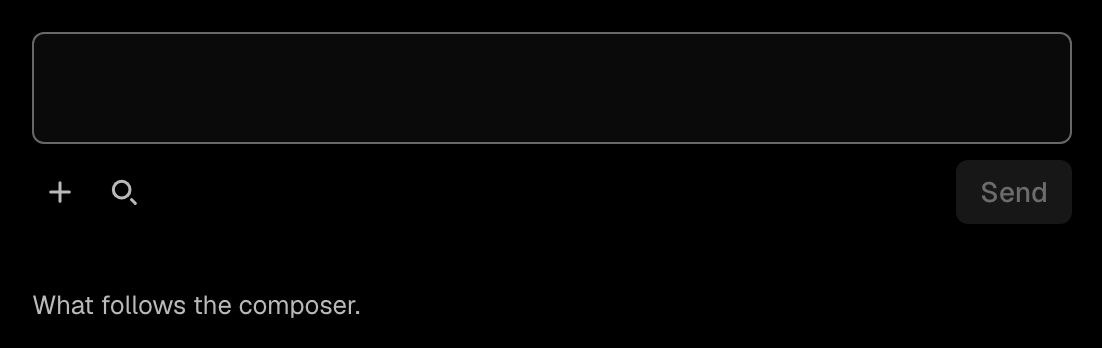
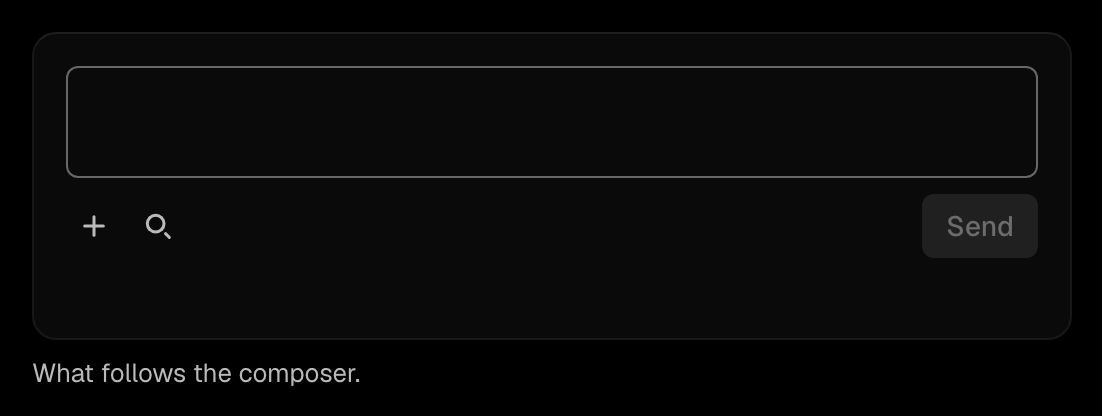
Round 69's walkthrough in the pixel review's order, with round 68's changelog as a step; main's pictures of the changed demos (3, 4, 14 with focus, the changelog)

diff --git a/tools/review/round69.tsx b/tools/review/round69.tsx
@@ -66,6 +66,7 @@ import type { CommandGroup, ReleaseRecord } from "../../packages/react/src/index
 import harborData from "../changelog/fixtures/harbor/releases.json";
 import { lb, weightData } from "../../packages/react/test/fixtures/figure-data";
 import { BEFORE } from "./assets/round-69/index";
+import { Slate } from "./round68";
 import type { Round, Step } from "./rounds";
 
 declare const __SKILL_PAGES__: Record<string, string>;
@@ -437,19 +438,20 @@ const step = (s: Spec, before = false): Step => ({
   demo: live(s.id, s.part),
 });
 
-/** The owner's eye (section 6), first: each item's state, with main's picture of it beside this branch's. */
+/** The owner's eye (section 6), first, in the pixel review's order: each item's state, with main's picture of it beside this branch's. */
 const OWNERS: Spec[] = [
+  { id: "eye-03-legend", name: "Owner's eye 3: the legend no longer carries a gap's reason", intro: "Was 101: the reason in the readout. On a gap day the date line says the reason (\"Wed, Oct 21 · scale not used\"), as do the summary, the table and the day's description.", decisions: ["Each value reserves every form it can show, \"Not observed\" included, so no key moves on a gap day."], states: ["chart-gap"], part: ({ state }) => <ChartPart state={state === "chart-gap" ? "legend" : state} /> },
+  { id: "x-round68-changelog", name: "Round 68's package changelog: Copy link is back on the head's line", intro: "Not on the owner's list (the pixel review's blocking finding 2). PaneLayout's page column now says its room, and the Slate page says its gutter on its main, so each release's Copy link hangs to the head's line, where main's hand-written hang had it.", decisions: ["A drawer's Back directly in a PaneLayout's page column takes the same room."], states: ["default"], part: () => <Slate state="default" /> },
+  { id: "eye-13-select", name: "Owner's eye 13: on touch a still table's selection column is 44 wide", intro: "Was foundations' selection pattern: a first column size-control-md wide. The checkbox's whole target is in its own column.", decisions: ["The app gives the column var(--basalt-select-column); this table does."], states: ["default"], part: SelectColumnPart },
+  { id: "eye-09-toast", name: "Owner's eye 9: on touch a toast's Dismiss is drawn at 24, with a 44px hit area", intro: "Was the touch rule: a control drawn at 44. A toast is one height on every pointer.", decisions: ["Hit areas are 46 (45.08 pressed); a short action's missing width is on its start side."], states: ["undo@390", "go@390"], part: ToastPart },
+  { id: "eye-14-go", name: "Owner's eye 14: on touch a hung control with a short word is as wide as its word", intro: "Was the touch rule: a control is drawn at 44. \"Go\" is drawn 33 wide on the bar's line, with a 46px hit area.", decisions: ["At 800 on touch (a coarse pointer, emulated) the status bar's gutter is 24."], states: ["touch@800", "touch-focus@800"], widths: [800], part: StatusBarPart },
   { id: "eye-01-search", name: "Owner's eye 1: the search dialog ends under its results", intro: "Its top is held where a full result has it; the box ends under what it shows. Was 155, V3: a fixed height.", decisions: ["The field and the count keep their y with nothing found, two results and a full result."], states: ["none", "two", "full"], part: SearchPart },
-  { id: "eye-02-filter", name: "Owner's eye 2: the filter's head reads label, Clear, count", intro: "Was 103, T1: label, count, Clear.", decisions: ["Clear keeps its x at zero, some and all chosen; the count's spare room is the row's open end."], states: ["default"], part: FilterPart },
-  { id: "eye-03-legend", name: "Owner's eye 3: the legend no longer carries a gap's reason", intro: "Was 101: the reason in the readout. The reason stays in the lane, the summary, the table and the day's description.", decisions: ["Each value reserves every form it can show, \"Not observed\" included, so no key moves on a gap day."], states: ["chart-gap"], part: ({ state }) => <ChartPart state={state === "chart-gap" ? "legend" : state} /> },
+  { id: "eye-06-command", name: "Owner's eye 6: the command list's panel shrinks to its matches", intro: "Was 103: the panel holds its unfiltered height. On the open page what follows does not move; inside a card the card shrinks with it.", decisions: ["Nothing matching: the panel hugs; the room under it is page, and only on the page."], states: ["rest", "empty", "card"], part: CommandPart },
   { id: "eye-04-composer", name: "Owner's eye 4: the composer holds no status line", intro: "Was 272 (B3): one line tall even when empty. The status is in the actions row, and on a row of its own when it does not fit.", decisions: ["Send stays on the first row; the live region is always mounted."], states: ["empty", "typing", "narrow@390"], part: ComposerPart },
   { id: "eye-05-copy", name: "Owner's eye 5: a copy with a glyph keeps its words", intro: "Was 152, item 6: the words change to \"Copied\". The glyph is the check for 1500ms (the close for a refused write).", decisions: ["Copy and check morph as the icon-only copy does; copy and close crossfade."], states: ["rest", "copied", "refused"], part: CopyPart },
-  { id: "eye-06-command", name: "Owner's eye 6: the command list's panel shrinks to its matches", intro: "Was 103: the panel holds its unfiltered height. On the open page what follows does not move; inside a card the card shrinks with it.", decisions: ["Nothing matching: the panel hugs; the room under it is page, and only on the page."], states: ["rest", "empty", "card"], part: CommandPart },
+  { id: "eye-02-filter", name: "Owner's eye 2: the filter's head reads label, Clear, count", intro: "Was 103, T1: label, count, Clear.", decisions: ["Clear keeps its x at zero, some and all chosen; the count's spare room is the row's open end."], states: ["default"], part: FilterPart },
   { id: "eye-07-chips", name: "Owner's eye 7: an option chip is 12 and 12; a switch row with no tile is space-3", intro: "Was 154, A4 and A5: 10 and 14; 8 and 12.", decisions: ["The filter chip keeps 8 and 12: its mark is drawn 2.6 inside its seat."], states: ["default"], part: ChipsPart },
   { id: "eye-08-count", name: "Owner's eye 8: a one-figure count is a 24px circle", intro: "Was 154, A12: the pill holds two figures.", decisions: ["The button holds a two-figure seat round the pill, so 0 to 99 never moves it."], states: ["default"], widths: [1440], part: CountPart },
-  { id: "eye-09-toast", name: "Owner's eye 9: on touch a toast's Dismiss is drawn at 24, with a 44px hit area", intro: "Was the touch rule: a control drawn at 44. A toast is one height on every pointer.", decisions: ["Hit areas are 46 (45.08 pressed); a short action's missing width is on its start side."], states: ["undo@390", "go@390"], part: ToastPart },
-  { id: "eye-13-select", name: "Owner's eye 13: on touch a still table's selection column is 44 wide", intro: "Was foundations' selection pattern: a first column size-control-md wide. The checkbox's whole target is in its own column.", decisions: ["The app gives the column var(--basalt-select-column); this table does."], states: ["default"], part: SelectColumnPart },
-  { id: "eye-14-go", name: "Owner's eye 14: on touch a hung control with a short word is as wide as its word", intro: "Was the touch rule: a control is drawn at 44. \"Go\" is drawn 33 wide on the bar's line, with a 46px hit area.", decisions: ["At 800 on touch (a coarse pointer, emulated) the status bar's gutter is 24."], states: ["touch@800", "touch-focus@800"], widths: [800], part: StatusBarPart },
   { id: "eye-11-headline", name: "Not a reversal, for the owner: the chart headline on a day with no reading", intro: "The unit holds still and the dash sits by it, space-2 from the unit; the other way put the dash on the line and moved the unit.", decisions: ["DECISIONS 153's \"the unit never moves\" stands."], states: ["chart-gap"], part: ({ state }) => <ChartPart state={state === "chart-gap" ? "headline" : state} /> },
 ];
 

diff --git a/tools/review/assets/round-69/index.ts b/tools/review/assets/round-69/index.ts
@@ -103,6 +103,12 @@ import p_eye_14_go_default_800_dark from "./eye-14-go-default-800-dark.jpg";
 import p_eye_14_go_default_800_light from "./eye-14-go-default-800-light.jpg";
 import p_eye_14_go_touch_800_dark from "./eye-14-go-touch-800-dark.jpg";
 import p_eye_14_go_touch_800_light from "./eye-14-go-touch-800-light.jpg";
+import p_eye_14_go_touch_focus_800_dark from "./eye-14-go-touch-focus-800-dark.jpg";
+import p_eye_14_go_touch_focus_800_light from "./eye-14-go-touch-focus-800-light.jpg";
+import p_x_round68_changelog_default_1440_dark from "./x-round68-changelog-default-1440-dark.jpg";
+import p_x_round68_changelog_default_1440_light from "./x-round68-changelog-default-1440-light.jpg";
+import p_x_round68_changelog_default_390_dark from "./x-round68-changelog-default-390-dark.jpg";
+import p_x_round68_changelog_default_390_light from "./x-round68-changelog-default-390-light.jpg";
 export const BEFORE: Record<string, { src: string; width: number }> = {
   "eye-01-search-default-1440-dark": { src: p_eye_01_search_default_1440_dark, width: 591 },
   "eye-01-search-default-1440-light": { src: p_eye_01_search_default_1440_light, width: 596 },
@@ -208,4 +214,10 @@ export const BEFORE: Record<string, { src: string; width: number }> = {
   "eye-14-go-default-800-light": { src: p_eye_14_go_default_800_light, width: 800 },
   "eye-14-go-touch-800-dark": { src: p_eye_14_go_touch_800_dark, width: 800 },
   "eye-14-go-touch-800-light": { src: p_eye_14_go_touch_800_light, width: 800 },
+  "eye-14-go-touch-focus-800-dark": { src: p_eye_14_go_touch_focus_800_dark, width: 800 },
+  "eye-14-go-touch-focus-800-light": { src: p_eye_14_go_touch_focus_800_light, width: 800 },
+  "x-round68-changelog-default-1440-dark": { src: p_x_round68_changelog_default_1440_dark, width: 1000 },
+  "x-round68-changelog-default-1440-light": { src: p_x_round68_changelog_default_1440_light, width: 1000 },
+  "x-round68-changelog-default-390-dark": { src: p_x_round68_changelog_default_390_dark, width: 325 },
+  "x-round68-changelog-default-390-light": { src: p_x_round68_changelog_default_390_light, width: 325 },
 };

diff --git a/tools/review/round68.tsx b/tools/review/round68.tsx
@@ -100,7 +100,7 @@ function Harbor({ state, page = "notes" }: { state: string; page?: "home" | "not
 
 // ---- a package: Slate's changelog on a site page, the versions beside it, the version in the footer ----
 
-function Slate({ state }: { state: string }) {
+export function Slate({ state }: { state: string }) {
   const kind = kindOf(state);
   const press: string[] = [];
   if (kind === "sources") press.push('[id="pr41-1"] .basalt-release-source');
